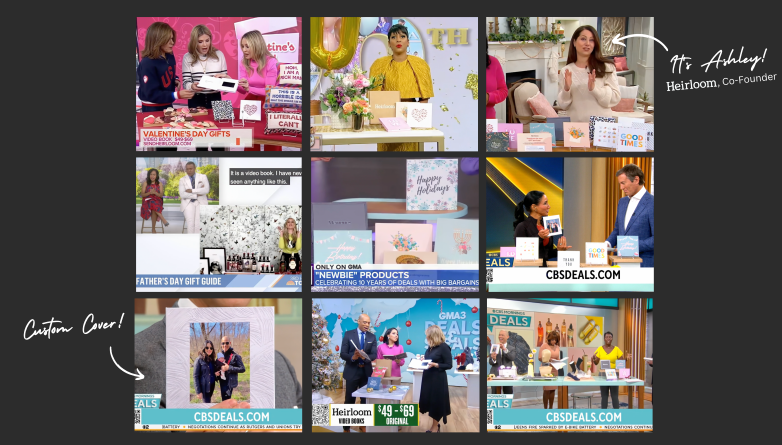
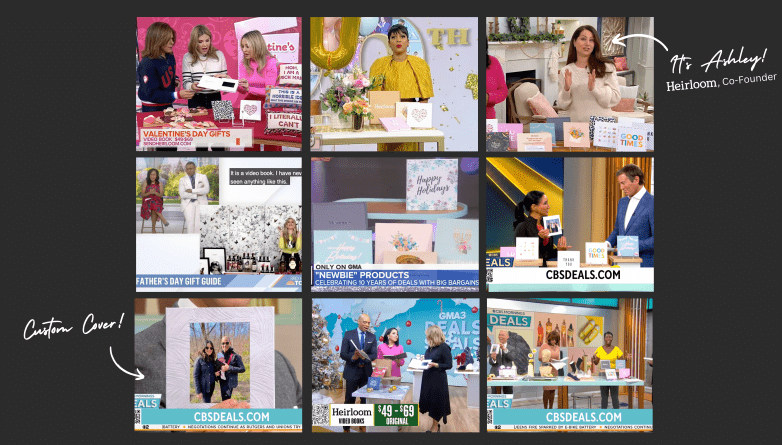
Fix image

diff --git a/src/index.html b/src/index.html
@@ -572,7 +572,7 @@ customer_video_books: [birthday, family, holiday, memorials, memories, surprises
     
     <div style="position: relative; padding-top: 56.25%;">
       <iframe
-        src="https://customer-tczythmrgrruw2zn.cloudflarestream.com/50f7de8b79dd71142a7f18417acff3f7/iframe?preload=true&poster=https%3A%2F%2Fsendheirloom.com%2Fimg%2Fsizzle-poster.png"
+        src="https://customer-tczythmrgrruw2zn.cloudflarestream.com/50f7de8b79dd71142a7f18417acff3f7/iframe?preload=true&poster=https%3A%2F%2Fsendheirloom.com%2Fstatic%2Fimages%2Fsizzle-poster.png"
         loading="lazy"
         style="border: none; position: absolute; top: 0; left: 0; height: 100%; width: 100%;"
         allow="accelerometer; gyroscope; autoplay; encrypted-media; picture-in-picture;"
